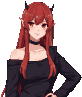
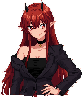
Лилит · 12 платежей: отдельный режим, новый портрет

diff --git a/index.html b/index.html
@@ -159,6 +159,7 @@
     border:1px solid var(--accent); background:#f0b35e22; }
   #saveBtns #mBrawl { border-color:#ffffff33; background:none; color:var(--dim); }
   #saveBtns #mX { border-color:#b56cff; background:#b56cff22; }
+  #saveBtns #mL { border-color:#c41a2a; background:#c41a2a22; }
   #saveBtns small:empty { display:none; }
   #saveBtns small { letter-spacing:0; text-transform:none; font-size:12px; color:var(--dim); }
   #title p.cupid { color:var(--accent); font-size:17px; margin:0 0 18px; text-align:center; padding:0 16px; }
@@ -382,11 +383,11 @@
 <body>
 <div id="stage">
   <canvas id="bg" width="320" height="180"></canvas>
-  <img class="sprite" id="gleb" src="img/gleb_px.png?v=10272239" alt="Глеб">
-  <img class="sprite" id="egor" src="img/egor_px.png?v=10272239" alt="Егор">
+  <img class="sprite" id="gleb" src="img/gleb_px.png?v=10272252" alt="Глеб">
+  <img class="sprite" id="egor" src="img/egor_px.png?v=10272252" alt="Егор">
   <img class="sprite" id="npc" alt="">
   <div id="phone"><div class="scr">
-    <div class="hdr"><div class="ava" id="tgava" style="background:url(img/yulia_ava.png?v=10272239) center/cover"></div><div><div class="nm" id="tgnm">Юлия — семинары</div><div class="st" id="tgst">была недавно</div></div></div>
+    <div class="hdr"><div class="ava" id="tgava" style="background:url(img/yulia_ava.png?v=10272252) center/cover"></div><div><div class="nm" id="tgnm">Юлия — семинары</div><div class="st" id="tgst">была недавно</div></div></div>
     <div id="msgs"></div>
   </div></div>
   <div id="place"></div>
@@ -435,7 +436,7 @@
   </div>
   <div id="gphone"><div class="scr" id="gscr"></div></div>
   <div id="dedic"><p>Егору.</p><p>В память о 3 ноября 2025 года.</p></div>
-  <div id="title"><small>Глава 1</small><h1>POWERHOUSE</h1><p class="cupid">Глеб — купидон. Сегодня он решает судьбу Егора.</p><div id="saveBtns"><button id="mCont">Продолжить</button><small id="saveInfo"></small><button id="mStory">Глава 1 · Powerhouse</button><button id="mX">Изнанка · 18+ · эксперимент</button><button id="mBrawl">Режим драки</button></div></div>
+  <div id="title"><small>Глава 1</small><h1>POWERHOUSE</h1><p class="cupid">Глеб — купидон. Сегодня он решает судьбу Егора.</p><div id="saveBtns"><button id="mCont">Продолжить</button><small id="saveInfo"></small><button id="mStory">Глава 1 · Powerhouse</button><button id="mX">Изнанка · 18+ · эксперимент</button><button id="mL">Лилит · 12 платежей · 18+</button><button id="mBrawl">Режим драки</button></div></div>
 </div>
 
 <script>
@@ -772,7 +773,7 @@ function startDrive() {
 }
 
 // ---------- Локация: воспоминание в «Ровеснике» (фон — та самая аниме-фотка в пикселях) ----------
-const ROV = new Image(); ROV.src = "img/rovesnik_bg.png?v=10272239"; ROV.onload = () => { if (scene && scene.bg === "memory") redraw(); };
+const ROV = new Image(); ROV.src = "img/rovesnik_bg.png?v=10272252"; ROV.onload = () => { if (scene && scene.bg === "memory") redraw(); };
 function drawMemory() {
   const c = $("bg").getContext("2d"), W = c.canvas.width, H = c.canvas.height;
   c.imageSmoothingEnabled = false;
@@ -1496,6 +1497,125 @@ const scenes = {
     ending: "Изнанка · концовка «Тьма»",
     choices: () => [
       { icon: "rewind", t: "Перемотать полночь", sub: "Попробовать ещё раз", go: "x_devil", rewind: true, cls: "rewind" },
+      { icon: "again", t: "В главное меню", sub: "Глава 1 и сохранения там", menu: true, go: "" }
+    ]
+  },
+  // ================= «Лилит · 12 платежей» (18+, отдельный режим) =================
+  // Тёмная романтика без откровенных сцен: флирт, напряжение, затемнение.
+  l_1: {
+    place: "Платёж 1/12 · Powerhouse · ночь", music: "eerie", inferno: true,
+    lines: [
+      { skip: "Лилит · 12 платежей" },
+      { npcShow: "npc_lilith", who: null, t: "Месяц после той ночи. Тот же бар, тот же стул. Она уже ждёт и крутит в пальцах мою зажигалку." },
+      { who: "Лилит", t: "Ты опоздал на семь минут. За это — отдельная плата." },
+      { who: "Глеб", t: "Какая?" },
+      { who: "Лилит", t: "Сядь ближе. Ещё. Вот так." },
+      { who: "", t: "От неё пахнет корицей и грозой. Я забываю, зачем пришёл." },
+      { who: "Лилит", t: "Сегодня я заберу у тебя мелочь. Цвет первого снега. Ты больше не вспомнишь, какой он." }
+    ],
+    choices: () => [
+      { icon: "soul", t: "Отдать", sub: "Первый снег — не самое важное", go: "l_1_give" },
+      { icon: "talk", t: "Предложить другое", sub: "«Возьми лучше мой страх.»", go: "l_1_trade" }
+    ]
+  },
+  l_1_give: {
+    place: "Платёж 1/12 · Powerhouse · ночь", music: "eerie", inferno: true, next: "l_6",
+    lines: [
+      { npcShow: "npc_lilith", fx: "magic", who: null, t: "Она касается губами моего виска. Холодно, как зимой." },
+      { who: "", t: "Первый снег. Какой он был? Не помню." }
+    ]
+  },
+  l_1_trade: {
+    place: "Платёж 1/12 · Powerhouse · ночь", music: "eerie", inferno: true, next: "l_6", learn: "brave",
+    lines: [
+      { npcShow: "npc_lilith", who: "Лилит", t: "Страх? Интересно. Без страха люди совершают очень красивые ошибки." },
+      { fx: "magic", who: "", t: "Мне впервые за долгое время не страшно. Даже её." }
+    ]
+  },
+  l_6: {
+    bg: "home", place: "Платёж 6/12 · её квартира · ночь", music: "radio",
+    lines: [
+      { skip: "Полгода спустя" },
+      { npcShow: "npc_lilith", who: null, t: "Теперь она назначает встречи у себя. Окна во всю стену, свечи, пластинки." },
+      { who: "Лилит", t: "Ты же понимаешь, что я демон. И что это плохая идея." },
+      { who: "Глеб", t: "Ты повторяешь это каждый раз. Как будто уговариваешь себя." },
+      { who: "Лилит", t: "Может, и себя." },
+      { who: null, t: "Она ставит пластинку. Ту самую, из Powerhouse, «для Егора». Мы танцуем медленно, хотя музыка быстрая." },
+      { who: "", t: "Её ладонь у меня на шее. Тёплая. Раньше она была холодной." }
+    ],
+    choices: () => [
+      { icon: "soul", t: "Поцеловать", sub: "Плохая идея. Отличная идея.", go: "l_6_kiss" },
+      { icon: "talk", t: "Спросить, почему она тёплая", sub: "Что с ней происходит", go: "l_6_ask" }
+    ]
+  },
+  l_6_kiss: {
+    bg: "home", place: "Платёж 6/12 · её квартира", music: "hope", next: "l_12",
+    lines: [
+      { npcShow: "npc_lilith", who: null, t: "Я целую её. Свечи гаснут разом, будто кто-то выдохнул." },
+      { skip: "…" },
+      { who: null, t: "Утро. На подушке рыжий волос. На запястье 6/12. Цифры почему-то бледнее, чем были." },
+      { who: "", t: "Будто долг уменьшается не только у меня." }
+    ]
+  },
+  l_6_ask: {
+    bg: "home", place: "Платёж 6/12 · её квартира", music: "sad", next: "l_12",
+    lines: [
+      { npcShow: "npc_lilith", who: "Лилит", t: "Каждый платёж — обмен. Ты отдаёшь мне кусочек себя. А я становлюсь чуть больше человеком." },
+      { who: "Лилит", t: "Ещё шесть раз — и я смогу умереть. Как вы. Это самое красивое, что у вас есть." },
+      { who: "", t: "Она не забирает мою душу. Она её примеряет." }
+    ]
+  },
+  l_12: {
+    bg: "summer", place: "Платёж 12/12 · набережная · рассвет", music: "sad",
+    lines: [
+      { skip: "Двенадцатый месяц" },
+      { npcShow: "npc_lilith", who: null, t: "Она позвала на набережную, на рассвет. Без рогов. Красные глаза стали карими." },
+      { who: "Лилит", t: "Последний платёж. Если я его заберу — у тебя не останется души. А у меня появится своя." },
+      { who: "Лилит", t: "Или уходи. Договор сгорит, и я снова стану тем, чем была." },
+      { who: "", t: "Я не знаю, что из этого любовь, а что сделка. Может, это одно и то же." }
+    ],
+    choices: () => [
+      { icon: "soul", t: "Отдать последнее", sub: "Пусть она станет человеком", go: "l_end_give" },
+      { icon: "go", t: "Уйти", sub: "Сохранить себя", go: "l_end_leave" },
+      ...(known.has("brave") ? [{ icon: "talk", t: "Остаться без сделки", sub: "«Договор — в реку. Давай просто будем.»", cls: "new", go: "l_end_stay" }] : [])
+    ]
+  },
+  l_end_give: {
+    bg: "summer", place: "Набережная · рассвет", music: "hope",
+    lines: [
+      { npcShow: "npc_lilith", fx: "magic", who: null, t: "Она берёт меня за руку. Тёплая. Живая." },
+      { who: "", t: "Внутри тихо и пусто, как в баре под утро. Но она улыбается так, как не умеют демоны." },
+      { who: "Лилит", t: "Спасибо. Я буду помнить за нас двоих." }
+    ],
+    ending: "Лилит · концовка «Двенадцатый платёж»",
+    choices: () => [
+      { icon: "rewind", t: "Сначала", sub: "Первый платёж", go: "l_1", reset: true, cls: "rewind" },
+      { icon: "again", t: "В главное меню", sub: "Глава 1 и сохранения там", menu: true, go: "" }
+    ]
+  },
+  l_end_leave: {
+    bg: "summer", place: "Набережная · рассвет", music: "sad",
+    lines: [
+      { who: null, t: "Я ухожу, не оборачиваясь. За спиной вспыхивает договор." },
+      { who: "", t: "Душа на месте. Только первый снег так и не вспоминается." }
+    ],
+    ending: "Лилит · концовка «Сгоревший договор»",
+    choices: () => [
+      { icon: "rewind", t: "Сначала", sub: "Первый платёж", go: "l_1", reset: true, cls: "rewind" },
+      { icon: "again", t: "В главное меню", sub: "Глава 1 и сохранения там", menu: true, go: "" }
+    ]
+  },
+  l_end_stay: {
+    bg: "summer", place: "Набережная · рассвет", music: "hope",
+    lines: [
+      { npcShow: "npc_lilith", who: "Глеб", t: "Договор — в реку. Давай без платежей. Просто будем." },
+      { who: null, t: "Она смеётся, впервые по-человечески. Бумага летит в реку и тонет, будто весит тонну." },
+      { who: "Лилит", t: "Это против всех правил." },
+      { who: "Глеб", t: "Мне больше не страшно, помнишь?" }
+    ],
+    ending: "Лилит · концовка «Без сделки»",
+    choices: () => [
+      { icon: "rewind", t: "Сначала", sub: "Первый платёж", go: "l_1", reset: true, cls: "rewind" },
       { icon: "again", t: "В главное меню", sub: "Глава 1 и сохранения там", menu: true, go: "" }
     ]
   },
@@ -2513,7 +2633,7 @@ function closeGPhone() {
 
 // ---------- Движок ----------
 const known = new Set();          // что Глеб знает; переживает перемотку
-const MEM = { text: "что написал Егор", voice: "драка кончится голосовым Юле", jail: "восемь лет в колонии", gun: "травмат в кармане — плохая идея", address: "где живёт Юля" };
+const MEM = { text: "что написал Егор", voice: "драка кончится голосовым Юле", jail: "восемь лет в колонии", gun: "травмат в кармане — плохая идея", address: "где живёт Юля", brave: "страх отдан Лилит" };
 
 // выстрел: резкая вспышка, «БАХ!», звук
 function shotFx() {
@@ -2547,13 +2667,13 @@ let scene, idx, typing = null;
 // анимация персонажей: три кадра у каждого
 const FRAMES = {}, anim = {};
 for (const n of ["gleb", "egor"]) {
-  FRAMES[n] = { base: `img/${n}_px.png?v=10272239`, talk: `img/${n}_talk.png?v=10272239`, blink: `img/${n}_blink.png?v=10272239` };
+  FRAMES[n] = { base: `img/${n}_px.png?v=10272252`, talk: `img/${n}_talk.png?v=10272252`, blink: `img/${n}_blink.png?v=10272252` };
   Object.values(FRAMES[n]).forEach(src => { new Image().src = src; });
   anim[n] = { talking: false, blinking: false, open: false };
 }
 function frame(n) {
   if (scene && (scene.spartan || scene.spartanAll) && (n === "egor" || scene.spartanAll)) {
-    $(n).src = n === "egor" && scene.spartanAll ? "img/egor_spartan2.png?v=10272239" : `img/${n}_spartan.png?v=10272239`; return;
+    $(n).src = n === "egor" && scene.spartanAll ? "img/egor_spartan2.png?v=10272252" : `img/${n}_spartan.png?v=10272252`; return;
   }
   const a = anim[n], f = FRAMES[n];
   $(n).src = a.blinking ? f.blink : (a.talking && a.open ? f.talk : f.base);
@@ -2582,7 +2702,7 @@ const NPC_IMG = {
   "Именинница": "npc_bday", "Подружка": "npc_friend", "Блондинка": "npc_blonde",
   "Петя": "npc_petya", "Витя": "npc_viktor", "Лилит": "npc_lilith"
 };
-Object.values(NPC_IMG).forEach(n => { new Image().src = `img/${n}.png?v=10272239`; });
+Object.values(NPC_IMG).forEach(n => { new Image().src = `img/${n}.png?v=10272252`; });
 function showNpc(who, file, cls) {
   let n = file || NPC_IMG[who];
   if (!n) return;
@@ -2591,7 +2711,7 @@ function showNpc(who, file, cls) {
   if (scene.spartanAll && who === "Витя") n = "npc_vitya_sp";
   const el = $("npc");
   el.onerror = () => el.classList.remove("on");    // нет картинки — лучше пусто, чем битая иконка
-  el.src = `img/${n}.png?v=10272239`; el.alt = who;
+  el.src = `img/${n}.png?v=10272252`; el.alt = who;
   el.classList.toggle("mid", !!scene.egor);      // Егор в кадре — собеседник встаёт между ними
   el.classList.remove("devil", "possessed");
   if (cls) el.classList.add(cls);
@@ -2681,7 +2801,7 @@ function show(id) {
   $("msgs").innerHTML = "";
   $("tgst").textContent = "была недавно"; $("tgst").className = "st";
   $("tgnm").textContent = "Юлия — семинары"; $("tgava").textContent = "";
-  $("tgava").style.background = "url(img/yulia_ava.png?v=10272239) center/cover";
+  $("tgava").style.background = "url(img/yulia_ava.png?v=10272252) center/cover";
   $("npc").classList.remove("on", "dim");
   $("timer").classList.remove("on");
   $("explore").classList.remove("on");
@@ -2936,6 +3056,11 @@ $("mX").onclick = e => {
   e.stopPropagation();
   try { localStorage.removeItem(SAVE_KEY); } catch (er) {}
   known.clear(); $("title").classList.add("gone"); music.start(); show("x_home");
+};
+$("mL").onclick = e => {
+  e.stopPropagation();
+  try { localStorage.removeItem(SAVE_KEY); } catch (er) {}
+  known.clear(); $("title").classList.add("gone"); music.start(); show("l_1");
 };
 $("mBrawl").onclick = e => { e.stopPropagation(); $("title").classList.add("gone"); music.start(); show("brawl_mode"); };
 initMenu();
